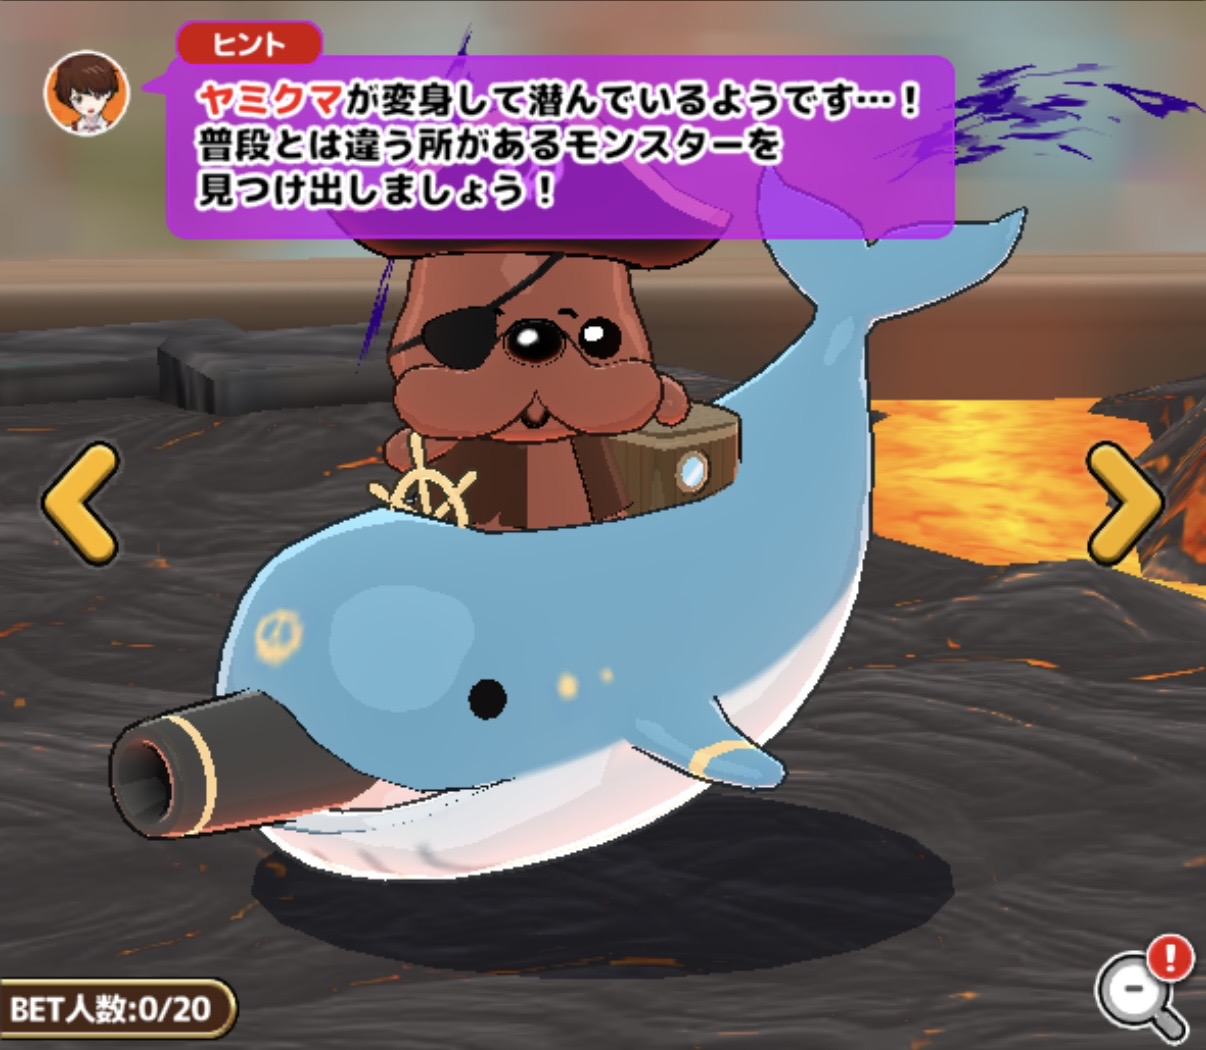
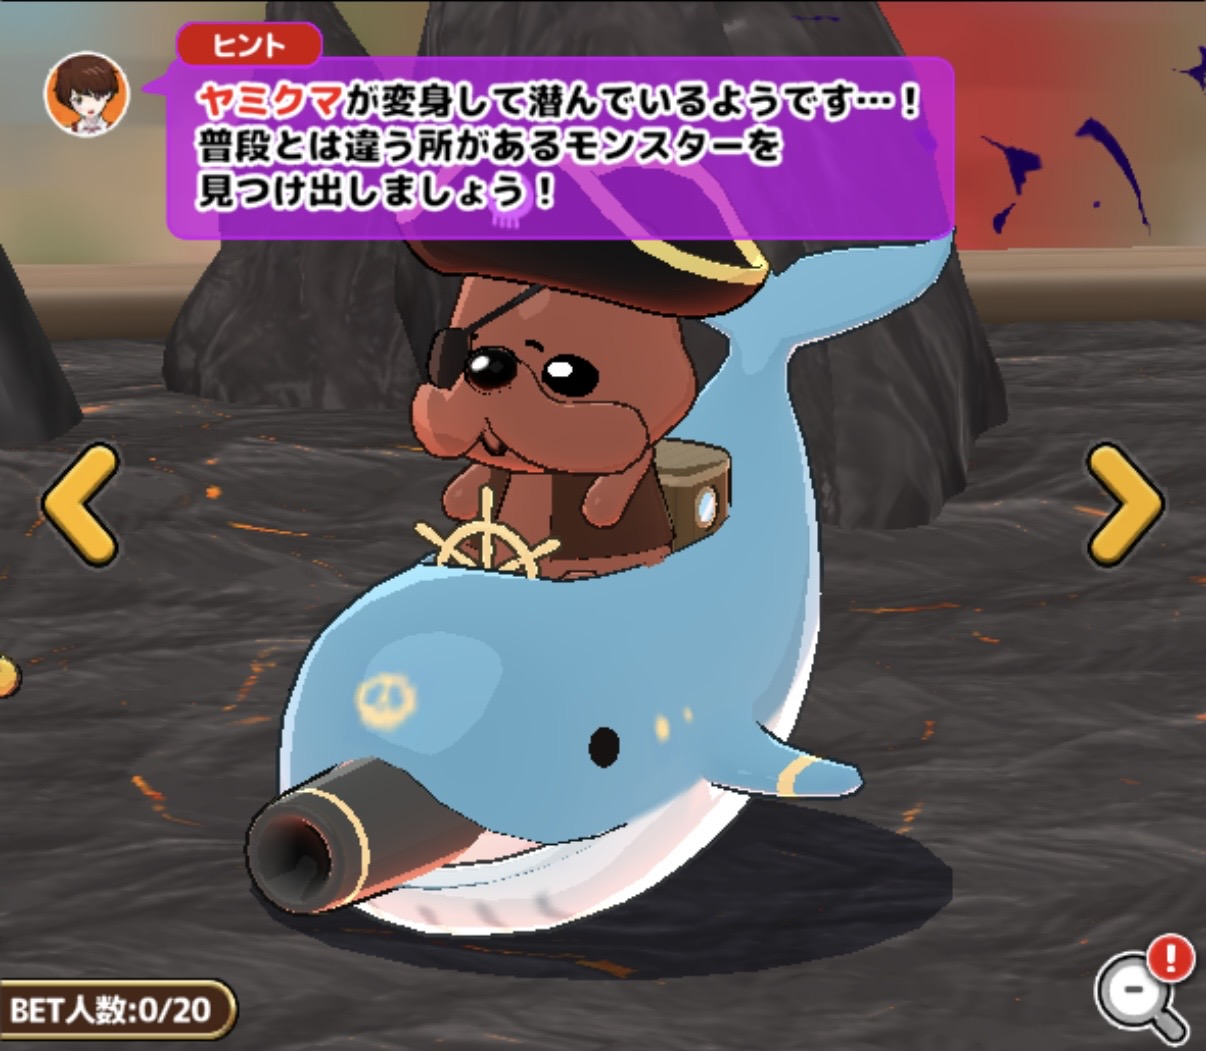
情報更新

diff --git a/index.html b/index.html
@@ -37,7 +37,7 @@
   <link rel="preconnect" href="https://fonts.googleapis.com">
   <link rel="preconnect" href="https://fonts.gstatic.com" crossorigin>
   <link href="https://fonts.googleapis.com/css2?family=Dela+Gothic+One&family=Zen+Antique&family=Noto+Sans+JP:wght@400;500;700;900&display=swap" rel="stylesheet">
-  <link rel="stylesheet" href="style.css?v=0.5.8">
+  <link rel="stylesheet" href="style.css?v=0.5.9">
 </head>
 <body>
 
@@ -215,8 +215,8 @@
     </svg>
   </div>
 
-  <script src="data-normal.js?v=0.5.8" defer></script>
-  <script src="data-anomaly.js?v=0.5.8" defer></script>
-  <script src="script.js?v=0.5.8" defer></script>
+  <script src="data-normal.js?v=0.5.9" defer></script>
+  <script src="data-anomaly.js?v=0.5.9" defer></script>
+  <script src="script.js?v=0.5.9" defer></script>
 </body>
 </html>

diff --git a/data-anomaly.js b/data-anomaly.js
@@ -111,6 +111,11 @@ const ANOMALY_DATA = {
       point: "リボンが通常時と比べて大きい。",
       compareIndex: 2
     },
+    {
+      note: "リボン",
+      point: "リボンが通常時と比べて大きい。",
+      compareIndex: 3
+    },
   ],
   m05: [
     {
@@ -426,12 +431,12 @@ const ANOMALY_DATA = {
   m23: [
     {
       note: "砲口",
-      point: "砲口がなくなっている。",
-      compareIndex: 1
+      point: "クジラの砲口がなくなっている。",
+      compareIndex: 2
     },
     {
       note: "サイズ",
-      point: "砲口がなくなっている。",
+      point: "クジラのサイズが小さくなっている。",
       compareIndex: 1
     },
   ],

diff --git a/data-normal.js b/data-normal.js
@@ -103,5 +103,6 @@ const NORMAL_EXTRA = {
   ],
   m23: [
     { label: "参考B" },
+    { label: "参考C" },
   ],
 };
